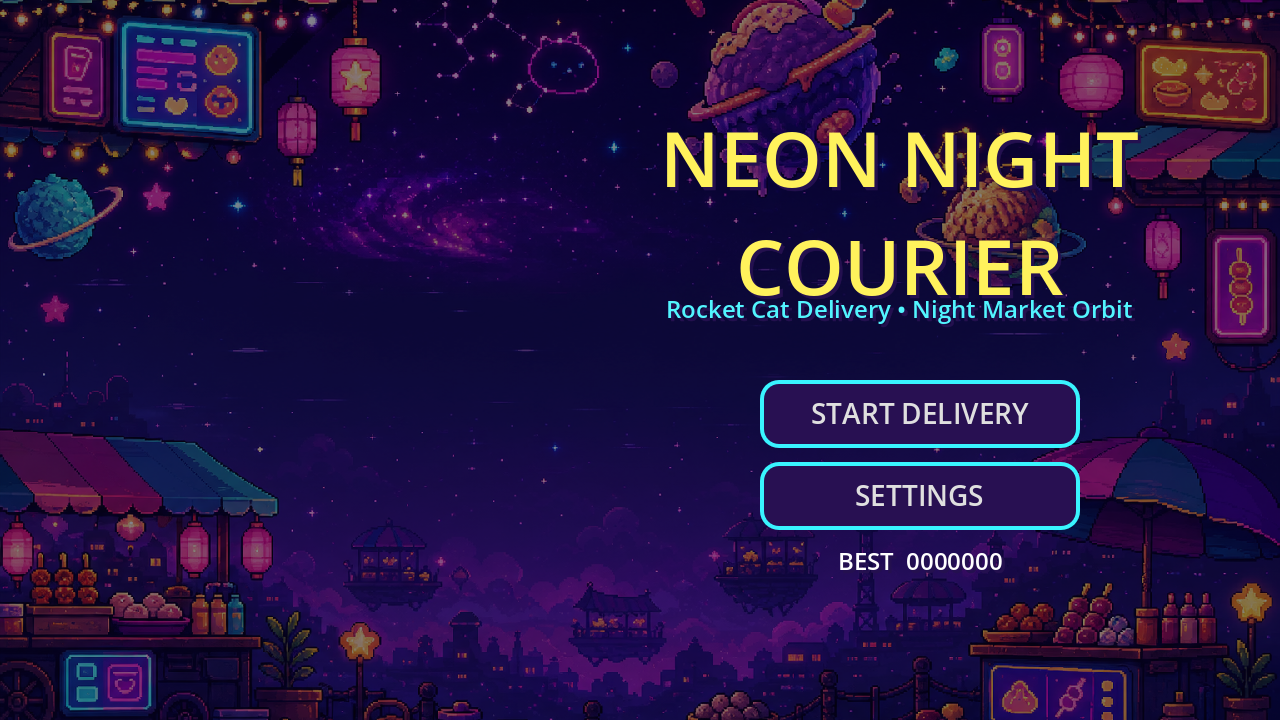
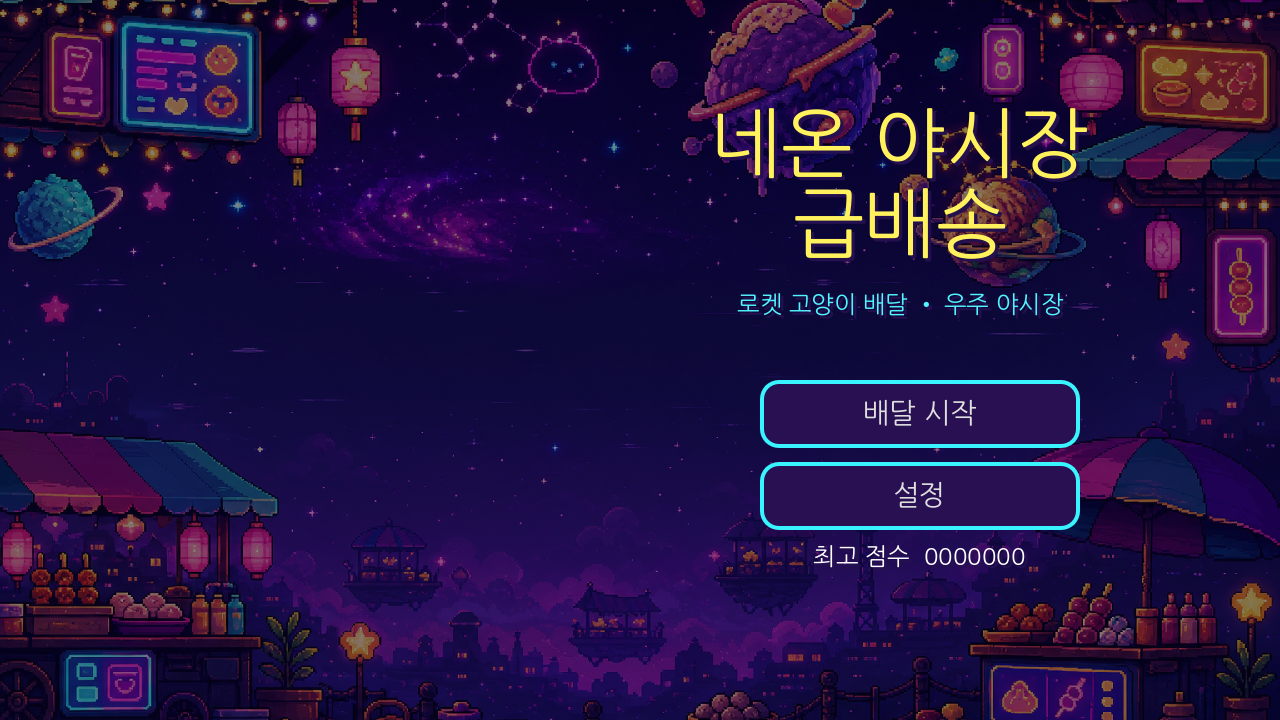
Embed Korean UI font

diff --git a/docs/ASSET_LICENSES.md b/docs/ASSET_LICENSES.md
@@ -8,6 +8,7 @@
 | `assets/art/enemy-sheet.png` | OpenAI image generation plus local chroma-key removal | Original project asset |
 | `assets/art/boss.png` | OpenAI image generation plus local chroma-key removal | Original project asset |
 | `assets/art/hud-icons.png` | OpenAI image generation plus local chroma-key removal | Original project asset |
+| `assets/fonts/NanumGothic-Regular.ttf` | Google Fonts / Sandoll Communications | SIL Open Font License 1.1 (`assets/fonts/OFL-NanumGothic.txt`) |
 
 The `*-key.png` files are retained as editable chroma-key sources. No third-party ROM, commercial sprite, copyrighted character, logo, music, or sound effect is included.
 